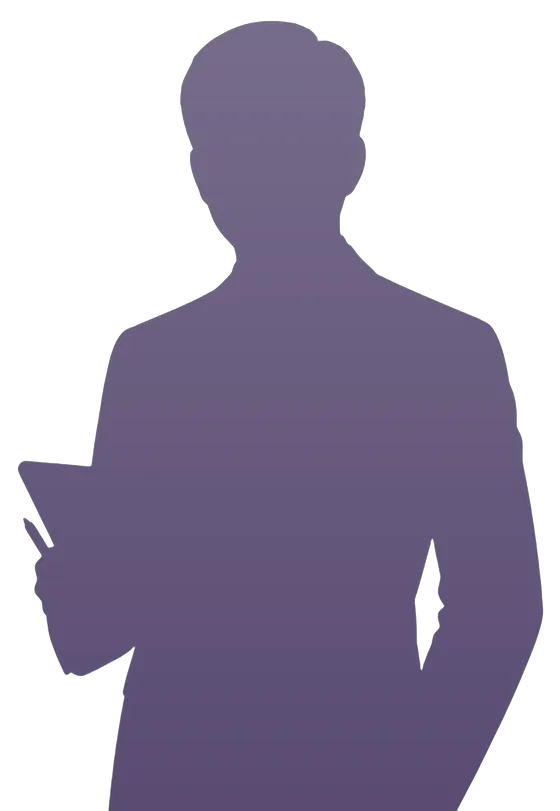
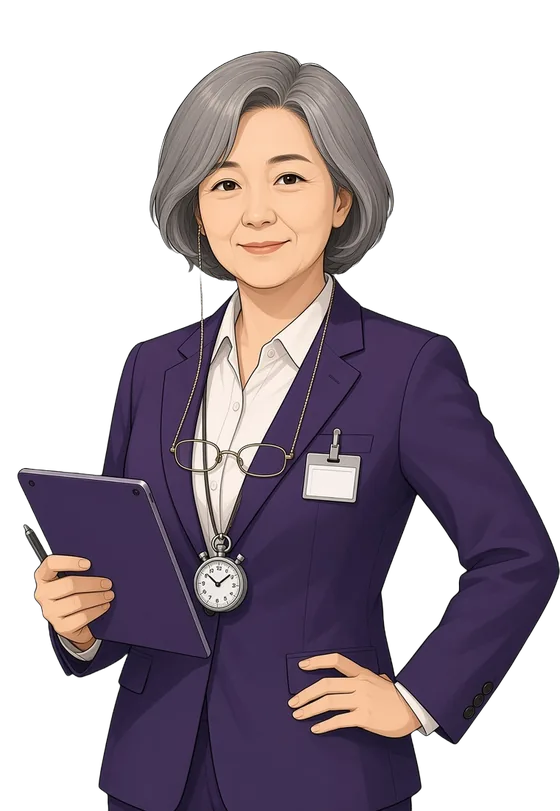
feat(depot): story day 9 — 시식 전쟁(E17 떡볶이 수레 · E18 대신 장보기) + 10일차 준비 중
- day9-script(v0.8) 등록: 경쟁 마트 천막(rival-tent) · 2호 시식대 · 안마의자 반기철 stage
- E17: 카트 앞 수레 40kg, 1.2 m/s 과속 누적 · 급제동/쿵 출렁 3번이면 넘침, 출렁 HUD
- E18: 목록 3개만 넘김(handOver — 카트에서 빼고 계산 안 함)
- 9일차 끝은 기존 '10일차 이야기는 준비 중' 카드
- 경쟁 마트 팀장 · 보라 조끼 직원 초상(v0.9 디자이너 그림) 교체/추가, characters.json 에 본명(realName 오미숙, 13일차 공개 — 이름표는 그대로)
- 팀장 3D 모델 색을 설정 팔레트(은회색 단발 · 보라 재킷)에 맞춤, 전단지 기울기 객체 재사용

diff --git a/src/depot/story/index.js b/src/depot/story/index.js
@@ -42,8 +42,8 @@ const STAGE_WHO = ['auditor', 'rivalboss', 'squad', 'spy'];
 const REVEAL_FLAG = 'spyRevealed'; // 수상한 손님 정체(이름)는 5일차 d5_036/d5_089c 선택지의 flag.spyRevealed 뒤에만 보임 (일차 기준 아님)
 const CHAIN_MISSED = EXIT.ignoreEvent?.chainMissed || {}; // 사건 중 계산 → 그날 남은 사건도 놓침 (mission.start 노드 id → 사건 id 들)
 const CUT_ON = { d2_143: () => spySilhouette() }, CUT_OFF = new Set(['d2_146', 'd2_147', 'd2_148', 'd2_150']);
-const PORTRAIT = { beomsuk: 'beomsuk', beomi: 'beomi', halmeoni: 'halmeoni', spy: 'spy', cashier: 'kimmiso', auditor: 'auditor', rivalboss: 'rivalboss' }; // rivalboss = 자리 표시 실루엣(아트 대기)
-const NAMES = { beomsuk: ['한범숙 주임', '매장 주임'], beomi: ['범이', '수습 알바'], halmeoni: ['말순 할머니', '시식 코너'], spy: ['수상한 손님', '???'], pa: ['방송실 점장', '방송 중'], me: ['나', ''], cashier: ['계산원 김미소', '계산대 07'], auditor: ['본사 감사관', '본사 감사팀'], rivalboss: ['경쟁 마트 팀장', '경쟁 마트'] };
+const PORTRAIT = { beomsuk: 'beomsuk', beomi: 'beomi', halmeoni: 'halmeoni', spy: 'spy', cashier: 'kimmiso', auditor: 'auditor', rivalboss: 'rivalboss', squad: 'purple-squad' }; // 2주차: 경쟁 마트 팀장(본명 오미숙 — 13일차 공개 전까지 이름표는 '경쟁 마트 팀장') · 보라 조끼 직원
+const NAMES = { beomsuk: ['한범숙 주임', '매장 주임'], beomi: ['범이', '수습 알바'], halmeoni: ['말순 할머니', '시식 코너'], spy: ['수상한 손님', '???'], pa: ['방송실 점장', '방송 중'], me: ['나', ''], cashier: ['계산원 김미소', '계산대 07'], auditor: ['본사 감사관', '본사 감사팀'], rivalboss: ['경쟁 마트 팀장', '경쟁 마트'], squad: ['보라 조끼 직원', '경쟁 마트'] };
 const SPY_REVEALED = ['반기철(반값)', '경쟁 마트 조사 요원']; // 가게 이름(싹쓸마트)은 미정이라 이름표·대사에 안 씀
 const NPC_NAME = Object.fromEntries((NPCT.types || []).map((t) => [t.id, t.name]));
 const EGG_TOWER = { x: 55.0, z: 28.6 }; // 통로 A '계란·유제품' 걸이 사인(53.9, 28) 아래, 랙 쪽에 붙임
@@ -1560,7 +1560,7 @@ export function createStory(ctx) {
       d6: () => ({ props: d6.stats(), vMul: st.vMul || 1, extraKg: st.extraKg || 0, race: mission?.race && (({ t, phase, runT, lap, cp, drops, done, result, reason, pace }) => ({ t, phase, runT, lap, cp, drops, done, result, reason, pace, rival: { ...mission.race.S.rival } }))(mission.race.S), stealth: mission?.stealth && { ...mission.stealth.S, F: mission.stealth.F.map((f) => ({ x: +f.x.toFixed(2), z: +f.z.toFixed(2), seeT: f.seeT })) } }),
       d7: () => ({ props: d7.stats(), audit: mission?.audit && { t: mission.audit.S.t, rams: mission.audit.S.rams, blocks: mission.audit.B.map((b) => ({ id: b.id, state: b.state, why: b.why, at: b.at, side: b.side })) }, melt: mission?.melt && { ...mission.melt.S }, follow: mission?.follow && { ...mission.follow.S }, co: mission?.co || null, vals: mission?.id === 'E11' ? auditVals(mission) : null, ending: session.ending, audit0: save.audit || null }),
       endingNow: () => endingVitality(save.ev, EVENTS.endingVitality || {}),
-      d8: () => ({ props: d8.stats(), d9: d9.stats(), stage: { auditor: stg.auditor, rivalboss: stg.rivalboss, squad: stg.squad, spy: stg.spy, spyN: !!stg.spyN }, convoy: stg.convoy && { d: +stg.convoy.S.d.toFixed(2), hits: stg.convoy.S.hits, paused: stg.convoy.paused(), carts: stg.convoy.C.map((x) => ({ x: +x.x.toFixed(2), z: +x.z.toFixed(2) })) }, hits: mission?.hits, fly: mission?.fly && { ...mission.fly.S, left: mission.fly.left() }, wag: mission?.wag && { ...mission.wag.S }, extraKg: st.extraKg || 0 }),
+      d8: () => ({ props: d8.stats(), d9: d9.stats(), stage: { auditor: stg.auditor, rivalboss: stg.rivalboss, squad: stg.squad, spy: stg.spy, spyN: !!stg.spyN }, convoy: stg.convoy && { d: +stg.convoy.S.d.toFixed(2), hits: stg.convoy.S.hits, paused: stg.convoy.paused(), carts: stg.convoy.C.map((x) => ({ x: +x.x.toFixed(2), z: +x.z.toFixed(2) })) }, hits: mission?.hits, fly: mission?.fly && { ...mission.fly.S, left: mission.fly.left(), states: mission.fly.F.map((f) => f.state[0]).join(''), floor: mission.fly.F.filter((f) => f.state === 'floor').map((f) => [+f.x.toFixed(2), +f.z.toFixed(2)]) }, lockVn: lock.vn, blocking: !!vn.blocking, mode: mode(), exitReq: !!exitReq, wag: mission?.wag && { ...mission.wag.S }, extraKg: st.extraKg || 0 }),
       applyStage: (o) => applyStage(o), convoyOn: () => convoyOn(),
       setFlags: (o) => { for (const [k, v] of Object.entries(o)) { if (v == null) delete save.flags[k]; else save.flags[k] = v; } }, convoyD: (dd) => { const cv = stg.convoy; if (cv) { cv.S.d = dd; cv.S.pauseT = 0; cv.step(0); } },
       photo: () => photoE05(),

diff --git a/src/depot/story/day8.js b/src/depot/story/day8.js
@@ -161,7 +161,7 @@ export function createDay8Props({ THREE, scene, keep, cartObj = null, isMobile =
   const lam = (o = {}) => keep(new THREE.MeshLambertMaterial({ vertexColors: true, ...o }));
   function buildBoss() { // 경쟁 마트 팀장: 50대 초반 여자 — 진보라 재킷 · 회색 바지 · 단발 · 스톱워치 (사람, 동물·마스코트 아님)
     const pos = [], col = [], nrm = [];
-    personParts(pos, col, nrm, { legs: 0x55575e, top: 0x4b2a7a, hair: 0x2b2420, hairLong: true, prop: 'stopwatch', skin: 0xeec3a0 });
+    personParts(pos, col, nrm, { legs: 0x3c3450, top: 0x5e4596, hair: 0xb9b6b2, hairLong: true, prop: 'stopwatch', skin: 0xf1cba8 }); // characters.json palette (은회색 단발 · 보라 재킷)
     box(pos, col, 0, 1.36, 0.135, 0.14, 0.26, 0.01, hex(0xe9e3f2), nrm); // 블라우스 깃
     const m = new THREE.Mesh(geo(THREE, keep, pos, col, nrm), lam()); m.name = 'story-rivalboss'; return m;
   }
@@ -182,7 +182,7 @@ export function createDay8Props({ THREE, scene, keep, cartObj = null, isMobile =
   function ensureCss() {
     if (css || typeof document === 'undefined') return;
     css = document.createElement('style'); css.id = 'dp-d8-css';
-    css.textContent = `#dp-d8c{position:fixed;left:50%;top:38%;transform:translate(-50%,-50%);z-index:60;pointer-events:none;background:#fffaf0;border:3px solid #1e5a45;border-radius:16px;padding:14px 18px 12px;box-shadow:0 10px 40px rgba(0,0,0,.35);font:800 14px Pretendard,"Noto Sans KR",sans-serif;color:#1e5a45;text-align:center;animation:dpd8 .4s}
+    css.textContent = `#dp-d8c{position:fixed;left:50%;top:30%;transform:translate(-50%,-50%);z-index:63;pointer-events:none;background:#fffaf0;border:3px solid #1e5a45;border-radius:16px;padding:14px 18px 12px;box-shadow:0 10px 40px rgba(0,0,0,.35);font:800 14px Pretendard,"Noto Sans KR",sans-serif;color:#1e5a45;text-align:center;animation:dpd8 .4s}
 #dp-d8c h4{margin:0 0 8px;font:900 17px Pretendard,sans-serif}#dp-d8c .row{display:flex;gap:${isMobile ? 6 : 9}px;justify-content:center}#dp-d8c .row i{width:${isMobile ? 30 : 38}px;height:${isMobile ? 30 : 38}px;border-radius:50%;border:3px dashed #9bb8a8;display:block}#dp-d8c .row i.on{border:3px solid #d9a21a;background:radial-gradient(circle,#fff6c8,#f2c230)}#dp-d8c p{margin:8px 0 0;font-weight:700;color:#4d6b5d}
 @keyframes dpd8{0%{transform:translate(-50%,-50%) scale(.6);opacity:0}100%{transform:translate(-50%,-50%) scale(1);opacity:1}}`;
     document.head.appendChild(css);
@@ -234,7 +234,7 @@ export function createDay8Props({ THREE, scene, keep, cartObj = null, isMobile =
       if (typeof document === 'undefined') return; ensureCss(); card?.remove();
       card = document.createElement('div'); card.id = 'dp-d8c';
       card.innerHTML = `<h4>2주차 단골 도장 카드</h4><div class="row">${Array.from({ length: 7 }, (_, i) => `<i class="${i < n ? 'on' : ''}"></i>`).join('')}</div><p>${ending === 'A' ? '1주차 금도장 카드는 액자에 넣었어요' : '8일차부터 새 카드 · 0/7'}</p>`;
-      document.body.appendChild(card); const c = card; setTimeout(() => { c.remove(); if (card === c) card = null; }, 2800);
+      document.body.appendChild(card); const c = card; setTimeout(() => { c.remove(); if (card === c) card = null; }, 4500);
     },
     stats() { return { boss: !!boss?.parent, squad: crewMode, crew: crew?.parent ? crew.count : 0, carts: carts?.parent ? 3 : 0, flyers: !!flyers?.parent, tent: !!tent?.parent, bin: !!bin?.parent, card: !!card }; },
     clearStage() { api.boss(null); api.squad(null); },
